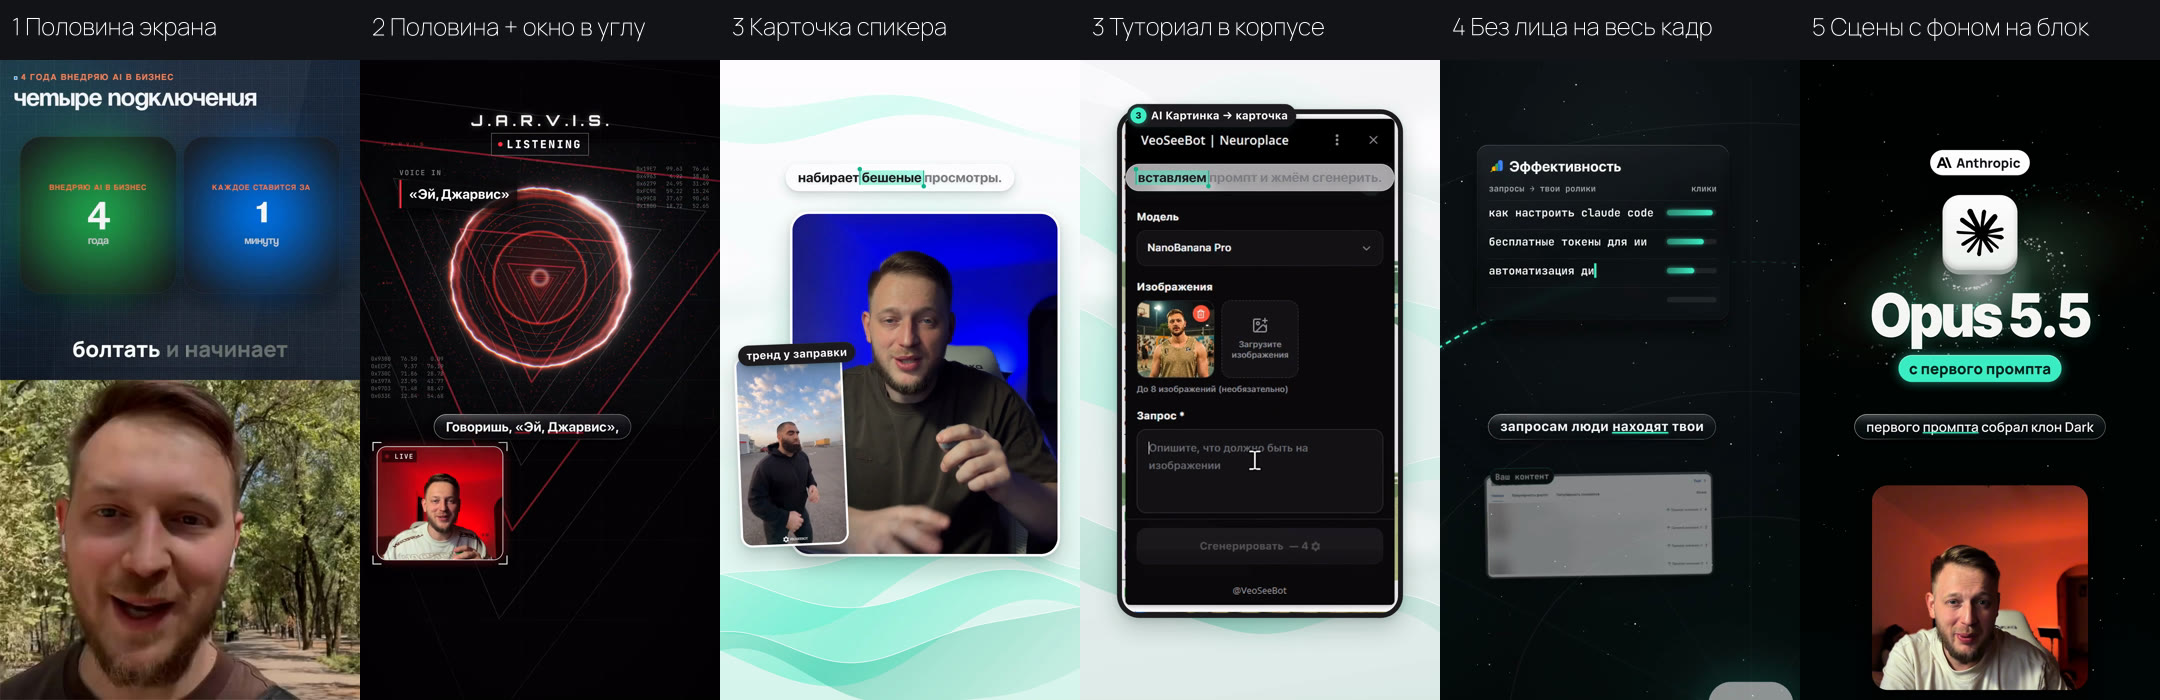
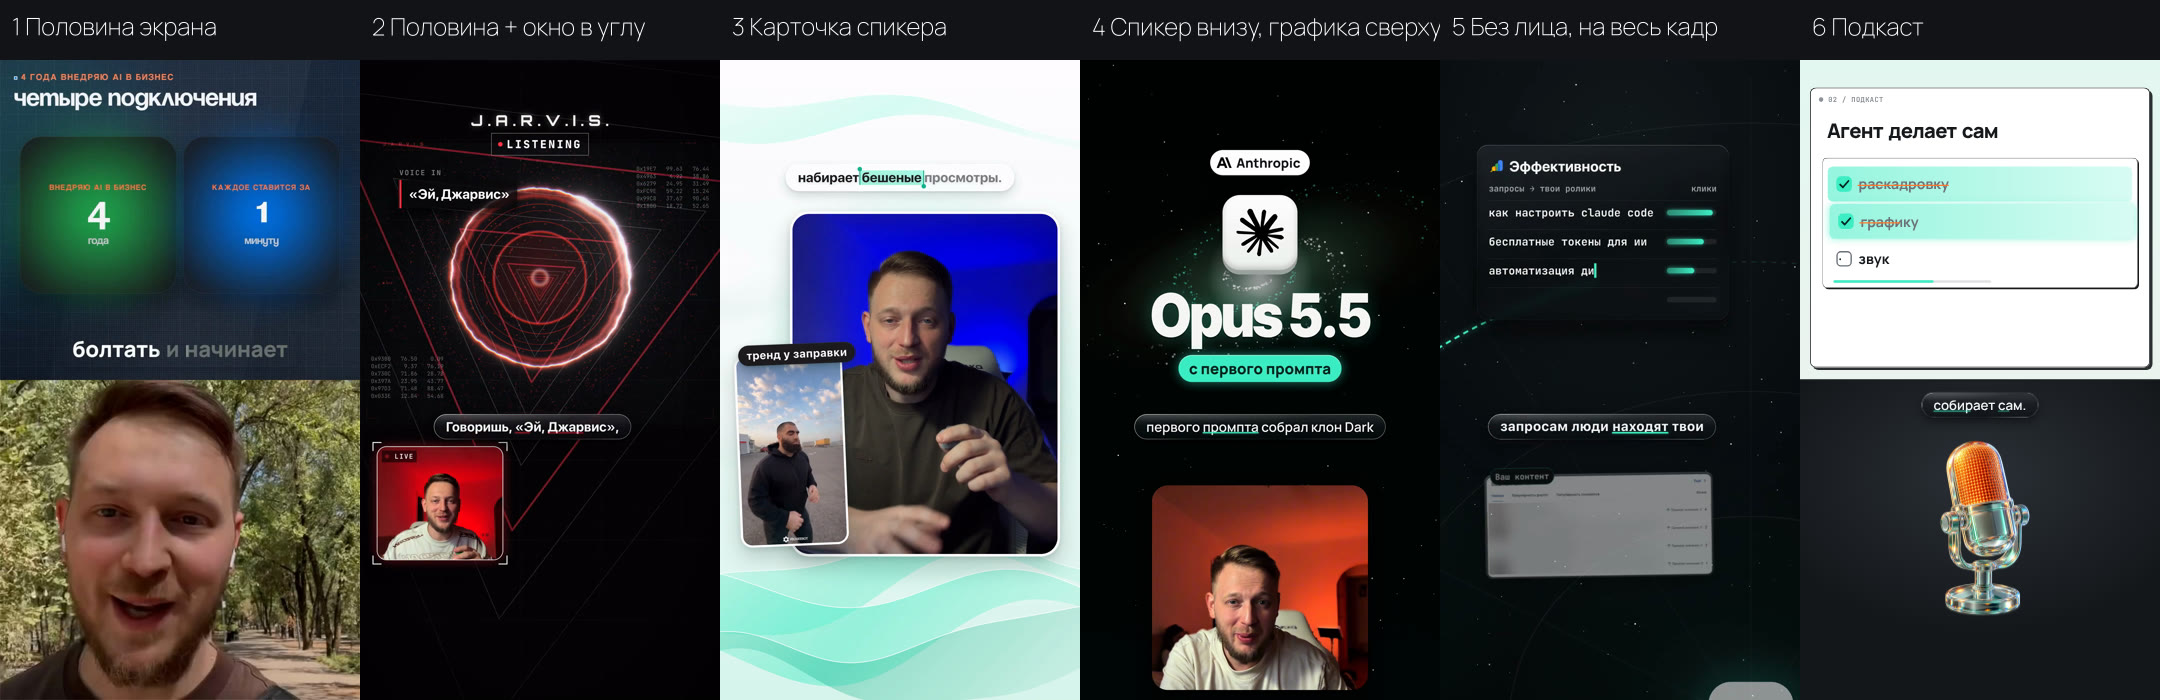
Доска форматов: номера 1–6 как в таблице навыка, один кадр на формат

Changed region(s): [[0.8065, 0.03, 1.0, 1.0], [0.4963, 0.03, 0.6824, 1.0], [0.7134, 0.03, 0.8065, 0.06]]

diff --git a/.claude/skills/onai-montage/reference/03-formats-styles.md b/.claude/skills/onai-montage/reference/03-formats-styles.md
@@ -3,16 +3,16 @@
 Сначала **формат** (где спикер и сколько места у графики), потом **стиль** (визуальный язык). Показать владельцу
 `public/style-previews/formats.jpg` и `styles.jpg`, посоветовать один вариант с причиной, выбирает владелец.
 
-## Форматы (кадр 1440×2560)
+## Форматы (кадр 1440×2560; номера как на доске `formats.jpg`)
 
-| Формат | Раскладка | Когда | Образец |
-|---|---|---|---|
-| **Половина экрана** | спикер снизу 1440×1280 с y 1280, графика сверху, шов линией; субтитры над швом, centerY 1157 | эксперт говорит в камеру про продукт, шаги, инструменты. Самый проверенный: на нём рилс 107 тыс. просмотров | `EXPERT`, `APPLE` (путь А), `patterns/reels/r27-connectors-half` |
-| **Половина + окно в углу** | по умолчанию половина; на схеме или живом интерфейсе спикер сворачивается в окно 500×450 (x 70, y 1548), графика на весь кадр, потом обратно | экспертный ролик, где 2–3 блока требуют всей площади | шаблон `src/reels/_template`, `patterns/reels/r29-jarvis-ironman` |
-| **Карточка спикера** | спикер в скруглённой карточке 1080×1380, обрезан сверху и снизу, фон вокруг живой; вставка референса 30% ширины слева; туториал в корпусе 79% высоты по центру | туториал «как сделать» с записью экрана | `patterns/reels/r28-trend-apple` |
-| **Спикер внизу, графика сверху** | карточка по центру внизу трёх размеров: компактная 648×613 (много предметов), базовая 864×819, широкая 1011×957 (одна строка текста); переход 0,5–0,7 с на смене смыслового блока | схемы и холст с камерой | `GLASS`, `PRISM`, `patterns/reels/r19-direct-assistant` |
-| **Без лица, на весь кадр** | только голос; графика сверху донизу в обход кнопок справа и ника внизу; субтитры centerY 1467 | озвучка без съёмки лица, обзоры сервисов | `PULSE`, `patterns/reels/r26-search-console` |
-| **Подкаст** | кадр подкаста снизу, доска с маркером сверху | нарезки интервью | `PODCAST` |
+| № | Формат | Раскладка | Когда | Образец |
+|---|---|---|---|---|
+| 1 | **Половина экрана** | спикер снизу 1440×1280 с y 1280, графика сверху, шов линией; субтитры над швом, centerY 1157 | эксперт говорит в камеру про продукт, шаги, инструменты. Самый проверенный: на нём рилс 107 тыс. просмотров | `EXPERT`, `APPLE` (путь А), `patterns/reels/r27-connectors-half` |
+| 2 | **Половина + окно в углу** | по умолчанию половина; на схеме или живом интерфейсе спикер сворачивается в окно 500×450 (x 70, y 1548), графика на весь кадр, потом обратно | экспертный ролик, где 2–3 блока требуют всей площади | шаблон `src/reels/_template`, `patterns/reels/r29-jarvis-ironman` |
+| 3 | **Карточка спикера** | спикер в скруглённой карточке 1080×1380, обрезан сверху и снизу, фон вокруг живой; вставка референса 30% ширины слева; туториал в корпусе 79% высоты по центру | туториал «как сделать» с записью экрана | `patterns/reels/r28-trend-apple` |
+| 4 | **Спикер внизу, графика сверху** | карточка по центру внизу трёх размеров: компактная 648×613 (много предметов), базовая 864×819, широкая 1011×957 (одна строка текста); переход 0,5–0,7 с на смене смыслового блока | схемы и холст с камерой | `GLASS`, `PRISM`, `patterns/reels/r19-direct-assistant` |
+| 5 | **Без лица, на весь кадр** | только голос; графика сверху донизу в обход кнопок справа и ника внизу; субтитры centerY 1467 | озвучка без съёмки лица, обзоры сервисов | `PULSE`, `patterns/reels/r26-search-console` |
+| 6 | **Подкаст** | кадр подкаста снизу, доска с маркером сверху | нарезки интервью | `PODCAST` |
 
 Лицо в любом окне: равномерный масштаб, точка лица в кадре записи (например x 0,5, y 0,42) ставится в нужное место окна;
 голова целиком, не сплющивать. Окно в углу только слева: справа кнопки Instagram.
